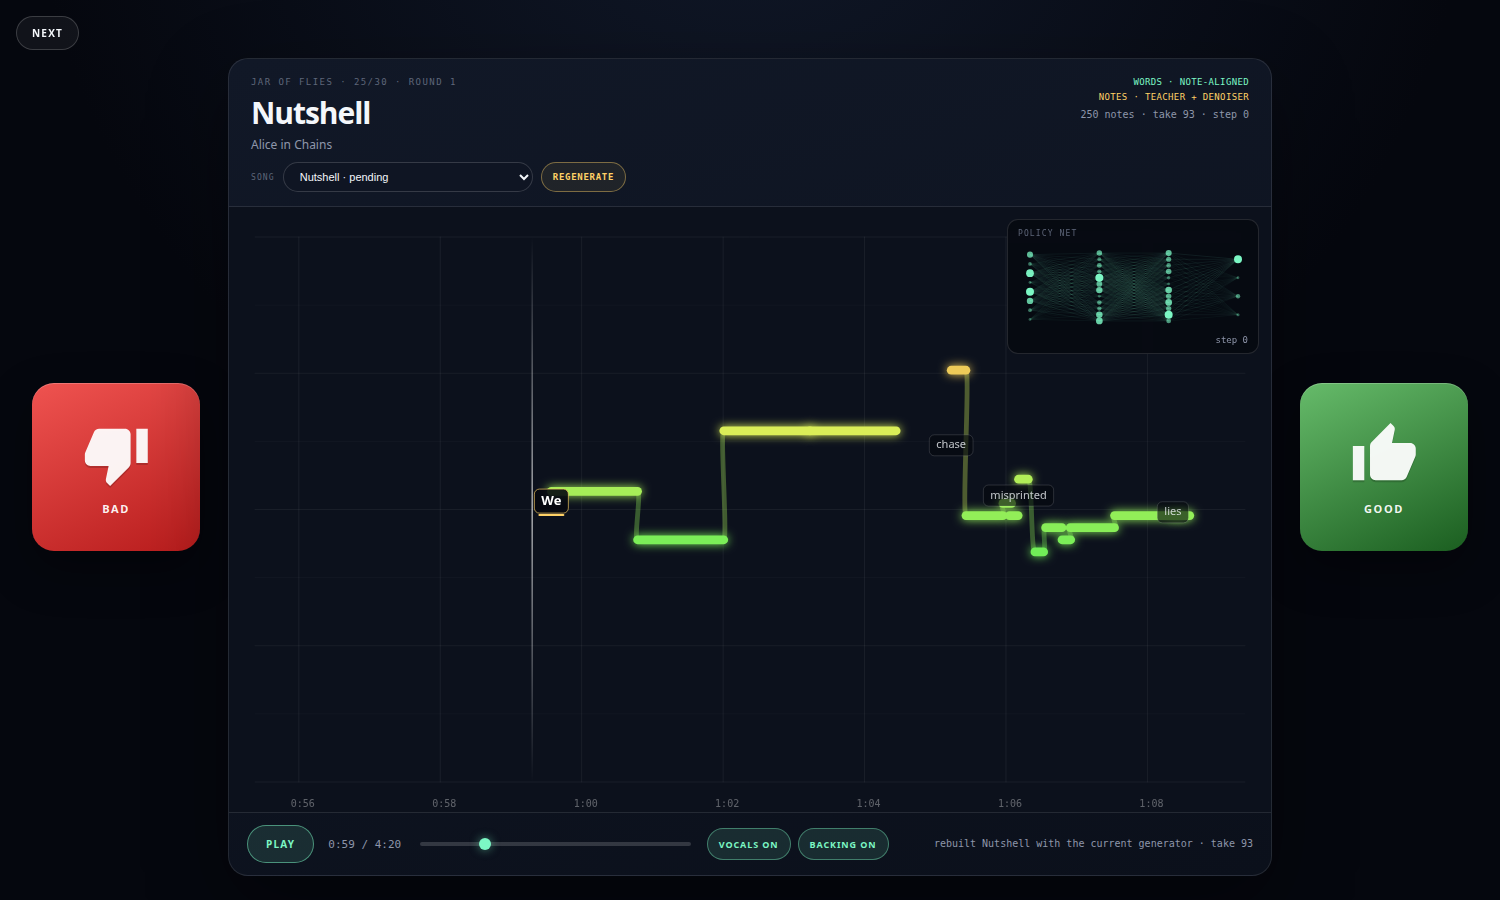
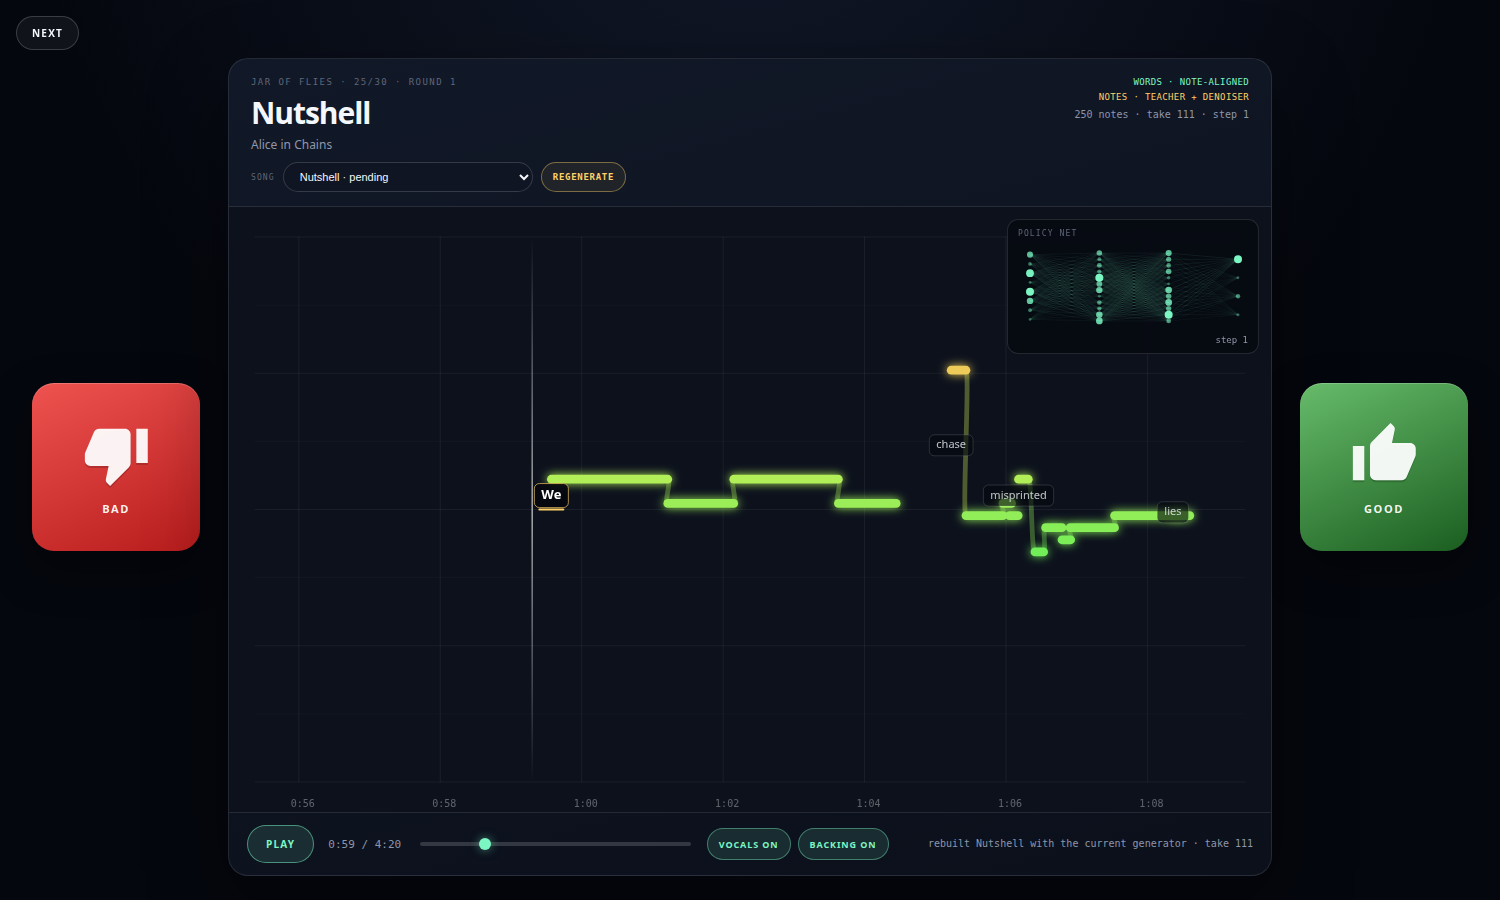
Make BAD retries update the model that generated the map
Fixes two reasons BAD appeared ineffective on Nutshell: teacher candidates recorded the broad checkpoint even when the AIC model generated them, and the held-note compression was deterministic. Teacher candidates now store the routed AIC/broad checkpoint, teacher anchor updates accept either model, and held-note boundaries/pitches vary with each retry seed. Held pitches are clamped within one semitone of the phrase median to avoid tracker octave jumps. Verified one BAD moves the AIC checkpoint from step 0 to 1 and changes the four We notes while keeping We at 59.571-64.45s; chase 65.225, misprinted 66.177, lies 68.360.

Changed region(s): [[0.3373, 0.4667, 0.6133, 0.6222], [0.6133, 0.9333, 0.828, 0.9644], [0.736, 0.1244, 0.7973, 0.1556]]

diff --git a/automap/automap/notes.py b/automap/automap/notes.py
@@ -208,8 +208,14 @@ def _phrase_groups(notes: list[dict[str, Any]]) -> list[list[dict[str, Any]]]:
 def _compress_group(
     group: list[dict[str, Any]],
     count: int,
+    variant_seed: int = 0,
 ) -> list[dict[str, Any]]:
-    """Turn a long held phrase into a small ribbon run of equal-timed notes."""
+    """Turn a long held phrase into a small ribbon run of notes.
+
+    The internal boundaries are jittered by a generation seed so a BAD retry
+    can actually produce a different held-note realization instead of the same
+    four pitches every time.
+    """
     if not group or count <= 0:
         return []
     if len(group) <= count:
@@ -217,18 +223,30 @@ def _compress_group(
     start = min(float(note["start"]) for note in group)
     end = max(float(note["start"]) + float(note["dur"]) for note in group)
     span = max(0.1, end - start)
+    rng = np.random.default_rng(variant_seed)
+    positions = [0.0, 1.0]
+    for index in range(1, count):
+        base = index / count
+        positions.append(float(np.clip(base + rng.uniform(-0.10, 0.10), 0.04, 0.96)))
+    positions = sorted(positions)
+    held_pitch = int(round(float(np.median([int(note["midi"]) for note in group]))))
     result: list[dict[str, Any]] = []
     for index in range(count):
-        segment_start = start + span * index / count
-        segment_end = start + span * (index + 1) / count
-        pitches = [
+        segment_start = start + span * positions[index]
+        segment_end = start + span * positions[index + 1]
+        segment_pitches = [
             int(note["midi"])
             for note in group
             if segment_start - 1e-6 <= float(note["start"]) < segment_end
         ]
-        if not pitches:
-            pitches = [int(group[min(len(group) - 1, index * len(group) // count)]["midi"])]
-        midi = int(round(float(np.median(pitches))))
+        segment_pitch = (
+            int(round(float(np.median(segment_pitches))))
+            if segment_pitches
+            else held_pitch
+        )
+        # Held syllables may move slightly with vibrato, but must not leap an
+        # octave because of tracker noise.
+        midi = int(np.clip(segment_pitch, held_pitch - 1, held_pitch + 1))
         result.append(
             {
                 "start": round(segment_start, 3),
@@ -308,6 +326,7 @@ def _distribute_by_weights(
 def assign_word_runs(
     song: Song,
     notes: list[dict[str, Any]],
+    variant_seed: int = 0,
 ) -> list[dict[str, Any]]:
     """Assign notes to words by actual sung phrases, not equal word spacing.
 
@@ -373,7 +392,7 @@ def assign_word_runs(
             and len(first_group) >= 4
         )
         if held_first:
-            compressed = _compress_group(first_group, 4)
+            compressed = _compress_group(first_group, 4, variant_seed)
             assignments[0] = compressed
             first_ids = {id(note) for note in first_group}
             notes[:] = [note for note in notes if id(note) not in first_ids]
@@ -558,12 +577,13 @@ def build_map_document(
     note_alignment: str = "policy",
     note_source: dict[str, Any] | None = None,
     words_from_notes: bool = False,
+    variant_seed: int = 0,
 ) -> dict[str, Any]:
     midis = [int(note["midi"]) for note in notes]
     low = max(0, min(midis) - 2) if midis else 48
     high = min(127, max(midis) + 2) if midis else 72
     placed_words = (
-        assign_word_runs(song, notes)
+        assign_word_runs(song, notes, variant_seed)
         if words_from_notes
         else place_words(song, notes, audio)
     )

diff --git a/automap/automap/grade.py b/automap/automap/grade.py
@@ -13,6 +13,7 @@ import torch.nn.functional as F
 from .config import (
     FEEDBACK_PATH,
     MODEL_PATH,
+    TEACHER_AIC_MODEL_PATH,
     TEACHER_MODEL_PATH,
     POLICY_GRADIENT_SCALE,
     REWARD_BY_GRADE,
@@ -104,7 +105,7 @@ def update_from_grade(
     pending_model = pending.get("model_path")
     if pending_model is not None and str(pending_model[0]).strip():
         model_path = Path(str(pending_model[0]))
-    if model_path == TEACHER_MODEL_PATH:
+    if model_path in {TEACHER_MODEL_PATH, TEACHER_AIC_MODEL_PATH}:
         # The UI session keeps the old one-song anchor warm; teacher candidates
         # use a different feature layout and need their own replay anchor.
         anchor_data = None
@@ -135,7 +136,7 @@ def update_from_grade(
     total_value = 0.0
     if reward != 0.0:
         if anchor_data is None:
-            if model_path == TEACHER_MODEL_PATH:
+            if model_path in {TEACHER_MODEL_PATH, TEACHER_AIC_MODEL_PATH}:
                 from .teacher import load_teacher_anchor_data
 
                 anchor_data = load_teacher_anchor_data()

diff --git a/automap/automap/generate.py b/automap/automap/generate.py
@@ -184,7 +184,7 @@ def generate_candidate(
         }
         words_from_notes = True
         word_alignment = "notes"
-        action_model_path = str(TEACHER_MODEL_PATH)
+        action_model_path = str(teacher.teacher_model_path_for_song(song))
     else:
         checkpoint = load_checkpoint(model_path)
         candidates = load_or_build_candidates(song, audio)
@@ -252,6 +252,7 @@ def generate_candidate(
         note_alignment=note_alignment,
         note_source=note_source,
         words_from_notes=words_from_notes,
+        variant_seed=int(seed or 0),
     )
     timestamp = datetime.now(timezone.utc).strftime("%Y%m%d-%H%M%S-%f")
     archive = CANDIDATE_DIR / song.id / f"{timestamp}-{_slug(song.title)}.json"

diff --git a/automap/README.md b/automap/README.md
@@ -259,6 +259,10 @@ bar to jump anywhere in the song.
 - Green **GOOD** thumbs-up gives reward `+1` and advances to the next song.
 - **NEXT** skips the current candidate and moves to the next song without
   updating the model.
+- **BAD** updates the checkpoint that actually generated the current map (AIC
+  specialist or broad USDB model), then retries the song with a new held-note
+  realization. A single BAD now changes the “We” run; it no longer reuses the
+  same frozen notes.
 - **REGENERATE** discards the current candidate and rebuilds this song with the
   active generator. Use it when an old candidate is still lingering from before
   the teacher pipeline was installed. The old archive is kept; the queue position
